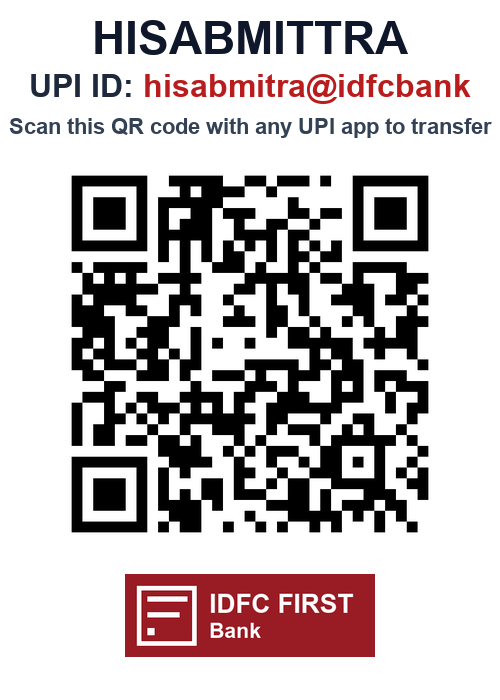
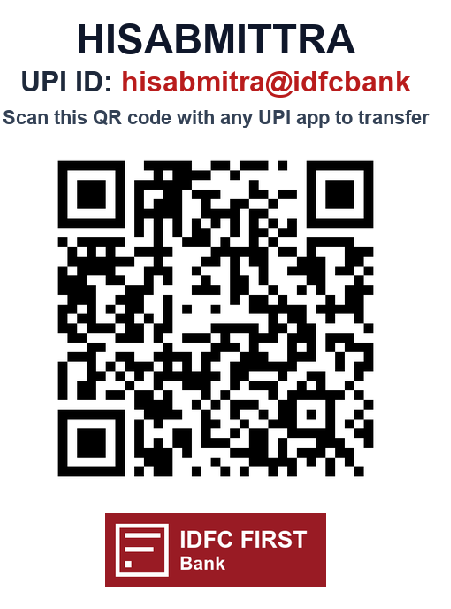
feat(quotations): use exact user uploaded QR image asset and scale to 165px

diff --git a/public/crm/admin/quotations.html b/public/crm/admin/quotations.html
@@ -974,8 +974,8 @@ Contact: support@hisabmittra.com | +91 9783055170 | www.hisabmittra.com</textare
                 <!-- Footer: Bank Details, EXACT QR Code, EXACT Seal & Signature (matching user uploaded reference) -->
         <div class="quotation-footer-container border-t-2 border-[#1e3a8a] pt-3 mt-4" style="display: flex; flex-direction: row; justify-content: space-between; align-items: flex-start; width: 100%; gap: 14px;">
             <!-- 1. Left: EXACT QR Code Block (Matching user uploaded Image) -->
-            <div class="quotation-qr-col" style="flex: 0 0 160px; width: 160px; text-align: center;">
-                <img src="/crm/images/hisab-mittra-qr-col.png?v=3" alt="HisabMittra UPI QR & Bank" class="quotation-qr-img" style="width: 155px; height: auto; object-fit: contain; display: block; margin: 0 auto; image-rendering: -webkit-optimize-contrast; image-rendering: crisp-edges;">
+            <div class="quotation-qr-col" style="flex: 0 0 170px; width: 170px; text-align: center;">
+                <img src="/crm/images/hisab-mittra-qr-col.png?v=4" alt="HisabMittra UPI QR & Bank" class="quotation-qr-img" style="width: 165px; height: auto; object-fit: contain; display: block; margin: 0 auto; image-rendering: -webkit-optimize-contrast; image-rendering: crisp-edges;">
             </div>
 
             <!-- 2. Middle: Bank Details (Matching user uploaded reference) -->
@@ -1094,8 +1094,8 @@ Contact: support@hisabmittra.com | +91 9783055170 | www.hisabmittra.com</div>
     }
     .quotation-qr-col img, .quotation-qr-img {
         display: block !important;
-        width: 145px !important;
-        max-width: 145px !important;
+        width: 160px !important;
+        max-width: 160px !important;
         height: auto !important;
         margin: 0 auto !important;
         image-rendering: -webkit-optimize-contrast !important;
@@ -1959,5 +1959,6 @@ document.addEventListener('DOMContentLoaded', function() {
     <script src="/crm/js/crm-leads-store.js"></script>
 </body>
 </html>
+
 
 

diff --git a/public/crm/admin/quotations/index.html b/public/crm/admin/quotations/index.html
@@ -974,8 +974,8 @@ Contact: support@hisabmittra.com | +91 9783055170 | www.hisabmittra.com</textare
                 <!-- Footer: Bank Details, EXACT QR Code, EXACT Seal & Signature (matching user uploaded reference) -->
         <div class="quotation-footer-container border-t-2 border-[#1e3a8a] pt-3 mt-4" style="display: flex; flex-direction: row; justify-content: space-between; align-items: flex-start; width: 100%; gap: 14px;">
             <!-- 1. Left: EXACT QR Code Block (Matching user uploaded Image) -->
-            <div class="quotation-qr-col" style="flex: 0 0 160px; width: 160px; text-align: center;">
-                <img src="/crm/images/hisab-mittra-qr-col.png?v=3" alt="HisabMittra UPI QR & Bank" class="quotation-qr-img" style="width: 155px; height: auto; object-fit: contain; display: block; margin: 0 auto; image-rendering: -webkit-optimize-contrast; image-rendering: crisp-edges;">
+            <div class="quotation-qr-col" style="flex: 0 0 170px; width: 170px; text-align: center;">
+                <img src="/crm/images/hisab-mittra-qr-col.png?v=4" alt="HisabMittra UPI QR & Bank" class="quotation-qr-img" style="width: 165px; height: auto; object-fit: contain; display: block; margin: 0 auto; image-rendering: -webkit-optimize-contrast; image-rendering: crisp-edges;">
             </div>
 
             <!-- 2. Middle: Bank Details (Matching user uploaded reference) -->
@@ -1094,8 +1094,8 @@ Contact: support@hisabmittra.com | +91 9783055170 | www.hisabmittra.com</div>
     }
     .quotation-qr-col img, .quotation-qr-img {
         display: block !important;
-        width: 145px !important;
-        max-width: 145px !important;
+        width: 160px !important;
+        max-width: 160px !important;
         height: auto !important;
         margin: 0 auto !important;
         image-rendering: -webkit-optimize-contrast !important;
@@ -1959,5 +1959,6 @@ document.addEventListener('DOMContentLoaded', function() {
     <script src="/crm/js/crm-leads-store.js"></script>
 </body>
 </html>
+
 
 

diff --git a/public/crm/admin/quotations/4.html b/public/crm/admin/quotations/4.html
@@ -784,8 +784,8 @@
         <!-- Footer: Bank Details, EXACT QR Code, EXACT Seal & Signature (matching user uploaded reference) -->
         <div class="quotation-footer-container border-t-2 border-[#1e3a8a] pt-4 mt-6 flex flex-col md:flex-row justify-between items-start gap-4 text-xs">
             <!-- 1. Left: EXACT QR Code Block -->
-            <div class="quotation-qr-col text-center" style="width: 150px; flex: 0 0 150px;">
-                <img src="/crm/images/hisab-mittra-qr-col.png?v=3" alt="HisabMittra UPI QR & Bank" style="width: 145px; height: auto; object-fit: contain; margin: 0 auto; image-rendering: -webkit-optimize-contrast;">
+            <div class="quotation-qr-col text-center" style="width: 165px; flex: 0 0 165px;">
+                <img src="/crm/images/hisab-mittra-qr-col.png?v=4" alt="HisabMittra UPI QR & Bank" style="width: 160px; height: auto; object-fit: contain; margin: 0 auto; image-rendering: -webkit-optimize-contrast;">
             </div>
 
             <!-- 2. Middle: Bank Details (Matching user uploaded reference) -->
@@ -1163,5 +1163,6 @@
         <script src="/crm/js/crm-leads-store.js"></script>
 </body>
 </html>
+
 
 

diff --git a/public/crm/admin/quotations/4/index.html b/public/crm/admin/quotations/4/index.html
@@ -784,8 +784,8 @@
         <!-- Footer: Bank Details, EXACT QR Code, EXACT Seal & Signature (matching user uploaded reference) -->
         <div class="quotation-footer-container border-t-2 border-[#1e3a8a] pt-4 mt-6 flex flex-col md:flex-row justify-between items-start gap-4 text-xs">
             <!-- 1. Left: EXACT QR Code Block -->
-            <div class="quotation-qr-col text-center" style="width: 150px; flex: 0 0 150px;">
-                <img src="/crm/images/hisab-mittra-qr-col.png?v=3" alt="HisabMittra UPI QR & Bank" style="width: 145px; height: auto; object-fit: contain; margin: 0 auto; image-rendering: -webkit-optimize-contrast;">
+            <div class="quotation-qr-col text-center" style="width: 165px; flex: 0 0 165px;">
+                <img src="/crm/images/hisab-mittra-qr-col.png?v=4" alt="HisabMittra UPI QR & Bank" style="width: 160px; height: auto; object-fit: contain; margin: 0 auto; image-rendering: -webkit-optimize-contrast;">
             </div>
 
             <!-- 2. Middle: Bank Details (Matching user uploaded reference) -->
@@ -1163,5 +1163,6 @@
         <script src="/crm/js/crm-leads-store.js"></script>
 </body>
 </html>
+
 
 

diff --git a/public/crm/admin/quotations/4/pdf.html b/public/crm/admin/quotations/4/pdf.html
@@ -96,8 +96,8 @@
     <!-- EXACT FOOTER: Bank Details & QR (Left/Middle) + Seal & Signature (Right) -->
     <div style="clear: both; margin-top: 30px; border-top: 2px solid #1e3a8a; padding-top: 15px; display: flex; justify-content: space-between; align-items: flex-start; gap: 15px; page-break-inside: avoid; break-inside: avoid;">
         <!-- 1. Left: EXACT QR Code Block -->
-        <div style="width: 150px; text-align: center; flex: 0 0 150px;">
-            <img src="/crm/images/hisab-mittra-qr-col.png?v=3" alt="HisabMittra UPI QR" style="width: 145px; height: auto; display: block; margin: 0 auto; image-rendering: -webkit-optimize-contrast;">
+        <div style="width: 165px; text-align: center; flex: 0 0 150px;">
+            <img src="/crm/images/hisab-mittra-qr-col.png?v=4" alt="HisabMittra UPI QR" style="width: 160px; height: auto; display: block; margin: 0 auto; image-rendering: -webkit-optimize-contrast;">
         </div>
 
         <!-- 2. Middle: Bank Details (Matching user uploaded reference) -->
@@ -121,4 +121,5 @@
 
 </body>
 </html>
+
 

diff --git a/public/crm/admin/quotations/4/pdf/index.html b/public/crm/admin/quotations/4/pdf/index.html
@@ -96,8 +96,8 @@
     <!-- EXACT FOOTER: Bank Details & QR (Left/Middle) + Seal & Signature (Right) -->
     <div style="clear: both; margin-top: 30px; border-top: 2px solid #1e3a8a; padding-top: 15px; display: flex; justify-content: space-between; align-items: flex-start; gap: 15px; page-break-inside: avoid; break-inside: avoid;">
         <!-- 1. Left: EXACT QR Code Block -->
-        <div style="width: 150px; text-align: center; flex: 0 0 150px;">
-            <img src="/crm/images/hisab-mittra-qr-col.png?v=3" alt="HisabMittra UPI QR" style="width: 145px; height: auto; display: block; margin: 0 auto; image-rendering: -webkit-optimize-contrast;">
+        <div style="width: 165px; text-align: center; flex: 0 0 150px;">
+            <img src="/crm/images/hisab-mittra-qr-col.png?v=4" alt="HisabMittra UPI QR" style="width: 160px; height: auto; display: block; margin: 0 auto; image-rendering: -webkit-optimize-contrast;">
         </div>
 
         <!-- 2. Middle: Bank Details (Matching user uploaded reference) -->
@@ -121,4 +121,5 @@
 
 </body>
 </html>
+
 

diff --git a/public/crm/admin/quotations/4/print.html b/public/crm/admin/quotations/4/print.html
@@ -96,8 +96,8 @@
     <!-- EXACT FOOTER: Bank Details & QR (Left/Middle) + Seal & Signature (Right) -->
     <div style="clear: both; margin-top: 30px; border-top: 2px solid #1e3a8a; padding-top: 15px; display: flex; justify-content: space-between; align-items: flex-start; gap: 15px; page-break-inside: avoid; break-inside: avoid;">
         <!-- 1. Left: EXACT QR Code Block -->
-        <div style="width: 150px; text-align: center; flex: 0 0 150px;">
-            <img src="/crm/images/hisab-mittra-qr-col.png?v=3" alt="HisabMittra UPI QR" style="width: 145px; height: auto; display: block; margin: 0 auto; image-rendering: -webkit-optimize-contrast;">
+        <div style="width: 165px; text-align: center; flex: 0 0 150px;">
+            <img src="/crm/images/hisab-mittra-qr-col.png?v=4" alt="HisabMittra UPI QR" style="width: 160px; height: auto; display: block; margin: 0 auto; image-rendering: -webkit-optimize-contrast;">
         </div>
 
         <!-- 2. Middle: Bank Details (Matching user uploaded reference) -->
@@ -121,4 +121,5 @@
 
 </body>
 </html>
+
 

diff --git a/public/crm/admin/quotations/4/print/index.html b/public/crm/admin/quotations/4/print/index.html
@@ -96,8 +96,8 @@
     <!-- EXACT FOOTER: Bank Details & QR (Left/Middle) + Seal & Signature (Right) -->
     <div style="clear: both; margin-top: 30px; border-top: 2px solid #1e3a8a; padding-top: 15px; display: flex; justify-content: space-between; align-items: flex-start; gap: 15px; page-break-inside: avoid; break-inside: avoid;">
         <!-- 1. Left: EXACT QR Code Block -->
-        <div style="width: 150px; text-align: center; flex: 0 0 150px;">
-            <img src="/crm/images/hisab-mittra-qr-col.png?v=3" alt="HisabMittra UPI QR" style="width: 145px; height: auto; display: block; margin: 0 auto; image-rendering: -webkit-optimize-contrast;">
+        <div style="width: 165px; text-align: center; flex: 0 0 150px;">
+            <img src="/crm/images/hisab-mittra-qr-col.png?v=4" alt="HisabMittra UPI QR" style="width: 160px; height: auto; display: block; margin: 0 auto; image-rendering: -webkit-optimize-contrast;">
         </div>
 
         <!-- 2. Middle: Bank Details (Matching user uploaded reference) -->
@@ -121,4 +121,5 @@
 
 </body>
 </html>
+
 

diff --git a/resources/views/crm/admin/quotations/index.blade.php b/resources/views/crm/admin/quotations/index.blade.php
@@ -331,8 +331,8 @@ Contact: support@hisabmittra.com | +91 9783055170 | www.hisabmittra.com</textare
                 <!-- Footer: Bank Details, EXACT QR Code, EXACT Seal & Signature (matching user uploaded reference) -->
         <div class="quotation-footer-container border-t-2 border-[#1e3a8a] pt-3 mt-4" style="display: flex; flex-direction: row; justify-content: space-between; align-items: flex-start; width: 100%; gap: 14px;">
             <!-- 1. Left: EXACT QR Code Block (Matching user uploaded Image) -->
-            <div class="quotation-qr-col" style="flex: 0 0 160px; width: 160px; text-align: center;">
-                <img src="/crm/images/hisab-mittra-qr-col.png?v=3" alt="HisabMittra UPI QR & Bank" class="quotation-qr-img" style="width: 155px; height: auto; object-fit: contain; display: block; margin: 0 auto; image-rendering: -webkit-optimize-contrast; image-rendering: crisp-edges;">
+            <div class="quotation-qr-col" style="flex: 0 0 170px; width: 170px; text-align: center;">
+                <img src="/crm/images/hisab-mittra-qr-col.png?v=4" alt="HisabMittra UPI QR & Bank" class="quotation-qr-img" style="width: 165px; height: auto; object-fit: contain; display: block; margin: 0 auto; image-rendering: -webkit-optimize-contrast; image-rendering: crisp-edges;">
             </div>
 
             <!-- 2. Middle: Bank Details (Matching user uploaded reference) -->
@@ -451,8 +451,8 @@ Contact: support@hisabmittra.com | +91 9783055170 | www.hisabmittra.com</div>
     }
     .quotation-qr-col img, .quotation-qr-img {
         display: block !important;
-        width: 145px !important;
-        max-width: 145px !important;
+        width: 160px !important;
+        max-width: 160px !important;
         height: auto !important;
         margin: 0 auto !important;
         image-rendering: -webkit-optimize-contrast !important;
@@ -836,4 +836,5 @@ document.addEventListener('DOMContentLoaded', function() {
 });
 </script>
 @endsection
+
 

diff --git a/resources/views/crm/admin/quotations/pdf.blade.php b/resources/views/crm/admin/quotations/pdf.blade.php
@@ -90,8 +90,8 @@
     <!-- EXACT FOOTER: Bank Details & QR (Left/Middle) + Seal & Signature (Right) -->
     <div style="clear: both; margin-top: 30px; border-top: 2px solid #1e3a8a; padding-top: 15px; display: flex; justify-content: space-between; align-items: flex-start; gap: 15px; page-break-inside: avoid; break-inside: avoid;">
         <!-- 1. Left: EXACT QR Code Block -->
-        <div style="width: 150px; text-align: center; flex: 0 0 150px;">
-            <img src="/crm/images/hisab-mittra-qr-col.png?v=3" alt="HisabMittra UPI QR" style="width: 145px; height: auto; display: block; margin: 0 auto; image-rendering: -webkit-optimize-contrast;">
+        <div style="width: 165px; text-align: center; flex: 0 0 150px;">
+            <img src="/crm/images/hisab-mittra-qr-col.png?v=4" alt="HisabMittra UPI QR" style="width: 160px; height: auto; display: block; margin: 0 auto; image-rendering: -webkit-optimize-contrast;">
         </div>
 
         <!-- 2. Middle: Bank Details (Matching user uploaded reference) -->
@@ -115,4 +115,5 @@
 
 </body>
 </html>
+
 

diff --git a/resources/views/crm/admin/quotations/print.blade.php b/resources/views/crm/admin/quotations/print.blade.php
@@ -90,8 +90,8 @@
     <!-- EXACT FOOTER: Bank Details & QR (Left/Middle) + Seal & Signature (Right) -->
     <div style="clear: both; margin-top: 30px; border-top: 2px solid #1e3a8a; padding-top: 15px; display: flex; justify-content: space-between; align-items: flex-start; gap: 15px; page-break-inside: avoid; break-inside: avoid;">
         <!-- 1. Left: EXACT QR Code Block -->
-        <div style="width: 150px; text-align: center; flex: 0 0 150px;">
-            <img src="/crm/images/hisab-mittra-qr-col.png?v=3" alt="HisabMittra UPI QR" style="width: 145px; height: auto; display: block; margin: 0 auto; image-rendering: -webkit-optimize-contrast;">
+        <div style="width: 165px; text-align: center; flex: 0 0 150px;">
+            <img src="/crm/images/hisab-mittra-qr-col.png?v=4" alt="HisabMittra UPI QR" style="width: 160px; height: auto; display: block; margin: 0 auto; image-rendering: -webkit-optimize-contrast;">
         </div>
 
         <!-- 2. Middle: Bank Details (Matching user uploaded reference) -->
@@ -115,4 +115,5 @@
 
 </body>
 </html>
+
 
